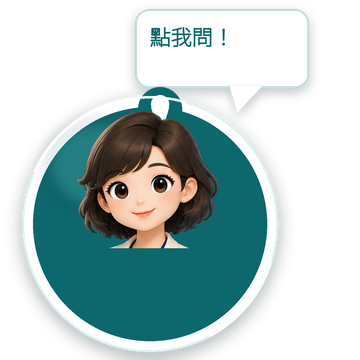
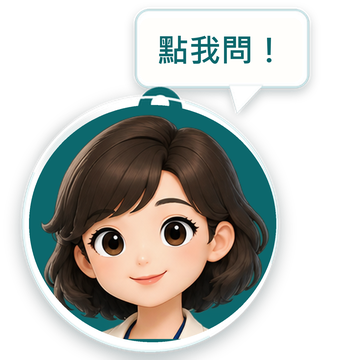
fix: align assistant chat windows

diff --git a/index.html b/index.html
@@ -2,7 +2,7 @@
 
 <!-- Dialogflow CX Conversational Messenger CSS -->
 <link rel="stylesheet" href="https://www.gstatic.com/dialogflow-console/fast/df-messenger/prod/v1/themes/df-messenger-default.css"/>
-<link rel="stylesheet" href="./assets/css/messenger.css?v=assistant-chat-button-20260901-r2"/>
+<link rel="stylesheet" href="./assets/css/messenger.css?v=assistant-chat-button-20260902-r1"/>
 
 </head><body><main class="site-shell"><header class="topbar"><a class="brand" href="#top" aria-label="回到出租房屋租稅優惠專區首頁"><img class="brand-logo" src="https://www-ws.gov.taipei/001/Upload/336/relpic/16016/4092/dbd1f0c1-640c-45bc-bcfa-b72e3a350869.png" alt="臺北市稅捐稽徵處"/><span>出租房屋租稅優惠專區</span></a><nav class="topnav" aria-label="主要導覽"><a href="#guide">快速導引</a><a href="#plans">出租方案</a><a href="#comparison">方案比較</a><a href="#process">辦理流程</a><a href="#tenant-services">租客服務</a><a href="#resources">官方資料</a></nav><a class="official-site-link" href="https://tpctax.gov.taipei/cp.aspx?n=3A978B4E3ADD88F2" target="_blank" rel="noreferrer">官方專區<span class="sr-only">（另開新視窗）</span></a></header><section class="hero" id="top"><div class="hero-copy"><span class="section-kicker">臺北市出租房屋租稅優惠專區</span><h1>選擇身分，<br/><em>查看適用方案</em></h1><p>快速了解出租方式、租稅優惠、辦理流程及應備資料；也可直接向下瀏覽全部資訊。</p><div class="hero-actions"><a class="primary-button" href="#guide">開始快速導引</a><a class="secondary-button" href="#plans">瀏覽全部資訊</a></div></div><aside class="hero-service-card" aria-label="本頁提供的服務"><span>本頁可協助您</span><ul><li><svg viewBox="0 0 24 24" fill="none" stroke="currentColor" stroke-width="1.8" stroke-linecap="round" stroke-linejoin="round" aria-hidden="true" focusable="false"><path d="M6 4h7l3 3-3 3H6zM18 12H9l-3 3 3 3h9zM12 10v11M12 3v1"></path></svg><div><strong>依身分取得辦理順序</strong><small>屋主與房客分流導引</small></div></li><li><svg viewBox="0 0 24 24" fill="none" stroke="currentColor" stroke-width="1.8" stroke-linecap="round" stroke-linejoin="round" aria-hidden="true" focusable="false"><rect x="2" y="4" width="7" height="16" rx="1.5"></rect><rect x="15" y="4" width="7" height="16" rx="1.5"></rect><path d="M4.5 8h2M4.5 12h2M17.5 8h2M17.5 12h2M10 8h4.5m-2-2 2 2-2 2M14 16H9.5m2 2-2-2 2-2"></path></svg><div><strong>比較四種出租方式</strong><small>條件、稅負與管理方式並列</small></div></li><li><svg viewBox="0 0 24 24" fill="none" stroke="currentColor" stroke-width="1.8" stroke-linecap="round" stroke-linejoin="round" aria-hidden="true" focusable="false"><path d="M6 3h8l4 4v14H6z"></path><path d="M14 3v5h5M9 12h6M9 16h6"></path></svg><div><strong>查閱完整官方資料</strong><small>申請、試算、房源與權益入口</small></div></li></ul></aside></section><section class="quick-links" aria-label="常用服務捷徑"><a href="#guide"><span class="quick-icon blue"><svg viewBox="0 0 24 24" fill="none" stroke="currentColor" stroke-width="1.8" stroke-linecap="round" stroke-linejoin="round" aria-hidden="true" focusable="false"><path d="M6 4h7l3 3-3 3H6zM18 12H9l-3 3 3 3h9zM12 10v11M12 3v1"></path></svg></span><div><strong>快速導引</strong><small>依身分與情況取得建議</small></div></a><a class="" href="https://services.arpa.tpctax.dof.gov.taipei/rentStandard/index.php?content=calculator" target="_blank" rel="noreferrer"><span class="quick-icon orange"><svg viewBox="0 0 24 24" fill="none" stroke="currentColor" stroke-width="1.8" stroke-linecap="round" stroke-linejoin="round" aria-hidden="true" focusable="false"><rect x="4" y="2.5" width="16" height="19" rx="2"></rect><path d="M7 6h10v3H7zM8 13h.01M12 13h.01M16 13h.01M8 17h.01M12 17h.01M16 17h.01"></path></svg></span><div><strong>租金標準試算</strong><small>使用稅捐處官方工具</small></div><span class="sr-only">（另開新視窗）</span></a><a href="#comparison"><span class="quick-icon green"><svg viewBox="0 0 24 24" fill="none" stroke="currentColor" stroke-width="1.8" stroke-linecap="round" stroke-linejoin="round" aria-hidden="true" focusable="false"><rect x="2" y="4" width="7" height="16" rx="1.5"></rect><rect x="15" y="4" width="7" height="16" rx="1.5"></rect><path d="M4.5 8h2M4.5 12h2M17.5 8h2M17.5 12h2M10 8h4.5m-2-2 2 2-2 2M14 16H9.5m2 2-2-2 2-2"></path></svg></span><div><strong>四方案比較</strong><small>一次比較條件與稅負</small></div></a><a href="#tenant-services"><span class="quick-icon purple"><svg viewBox="0 0 24 24" fill="none" stroke="currentColor" stroke-width="1.8" stroke-linecap="round" stroke-linejoin="round" aria-hidden="true" focusable="false"><circle cx="12" cy="7.5" r="3.2"></circle><path d="M5.5 20c.7-3.2 3-5 6.5-5s5.8 1.8 6.5 5"></path><path d="M4 4.5h3M5.5 3v3"></path></svg></span><div><strong>租客服務</strong><small>補貼、房源與租屋權益</small></div></a></section><section class="guide-section section-frame" id="guide"><div class="section-heading"><div><span class="section-kicker">快速互動導引</span><h2>依四個步驟，整理下一步</h2></div><p>互動導引協助您掌握流程；所有方案與官方資料也會常駐於下方，不必完成導引才能查看。</p></div><div class="journey-card"><aside class="journey-sidebar"><span class="journey-label">導引進度</span><ol><li class="active current" aria-current="step"><span>1</span><div><strong>確認身分</strong><small>屋主或房客</small></div></li><li class=" "><span>2</span><div><strong>選擇情況</strong><small>出租方式或租屋需求</small></div></li><li class=" "><span>3</span><div><strong>核對條件</strong><small>依實際情況回答</small></div></li><li class=" "><span>4</span><div><strong>查看結果</strong><small>辦理摘要與下一步</small></div></li></ol></aside><div class="journey-stage" tabindex="-1" aria-live="polite"><div class="journey-pane forward"><span class="stage-count">第 1 步，共 4 步</span><h3>請先選擇您的身分</h3><p>後續只顯示與您相關的方案與服務。</p><div class="role-grid"><button type="button"><span class="role-icon blue"><svg viewBox="0 0 24 24" fill="none" stroke="currentColor" stroke-width="1.8" stroke-linecap="round" stroke-linejoin="round" aria-hidden="true" focusable="false"><path d="m3 10 9-7 9 7"></path><path d="M5 9.5V21h14V9.5"></path><path d="M10 21v-6h4v6"></path></svg></span><strong>我是屋主</strong><small>我要出租房屋，查詢方案與租稅優惠</small><b>選擇屋主</b></button><button type="button"><span class="role-icon orange"><svg viewBox="0 0 24 24" fill="none" stroke="currentColor" stroke-width="1.8" stroke-linecap="round" stroke-linejoin="round" aria-hidden="true" focusable="false"><circle cx="12" cy="7.5" r="3.2"></circle><path d="M5.5 20c.7-3.2 3-5 6.5-5s5.8 1.8 6.5 5"></path><path d="M4 4.5h3M5.5 3v3"></path></svg></span><strong>我是房客</strong><small>我要查詢補貼、房源或租屋權益</small><b>選擇房客</b></button></div></div></div></div></section><section class="plans-section section-frame" id="plans"><div class="section-heading"><div><span class="section-kicker">屋主方案總覽</span><h2>先看懂四種出租方式</h2></div><p>點選任一方案圖卡，即會在下方展開完整條件、租稅重點與辦理資料；再次點選即可收合。</p></div><div class="plan-grid"><button class="plan-card blue " type="button" aria-expanded="false" aria-controls="plan-detail-ordinary"><div class="plan-card-top"><span class="plan-icon"><svg viewBox="0 0 24 24" fill="none" stroke="currentColor" stroke-width="1.8" stroke-linecap="round" stroke-linejoin="round" aria-hidden="true" focusable="false"><path d="m3 10 9-7 9 7M5 9.5V21h14V9.5"></path><path d="M9 16h6M12 13v6"></path></svg></span><small>0<!-- -->1</small></div><span class="plan-eyebrow">一般出租</span><h3>自行出租並申報租賃所得</h3><p>由屋主自行找房客、簽約及管理，並依規定辦理房屋稅與租賃所得申報。</p><div class="plan-tags"><span>自主管理</span><span>先試算租金標準</span></div><b>查看完整方案</b></button><button class="plan-card orange " type="button" aria-expanded="false" aria-controls="plan-detail-public"><div class="plan-card-top"><span class="plan-icon"><svg viewBox="0 0 24 24" fill="none" stroke="currentColor" stroke-width="1.8" stroke-linecap="round" stroke-linejoin="round" aria-hidden="true" focusable="false"><path d="M4 10.5 12 4l8 6.5V20H4z"></path><circle cx="12" cy="14" r="3.4"></circle><path d="M12 11.8v4.4M10.5 13h2.4c.8 0 1.2.4 1.2 1s-.4 1-1.2 1h-2.4"></path></svg></span><small>0<!-- -->2</small></div><span class="plan-eyebrow">公益出租人</span><h3>出租予符合租金補貼資格的房客</h3><p>將合法住宅出租給符合租金補貼資格的房客，經認定後可適用相關租稅優惠。</p><div class="plan-tags"><span>租金補貼戶</span><span>租稅優惠</span></div><b>查看完整方案</b></button><button class="plan-card green " type="button" aria-expanded="false" aria-controls="plan-detail-social"><div class="plan-card-top"><span class="plan-icon"><svg viewBox="0 0 24 24" fill="none" stroke="currentColor" stroke-width="1.8" stroke-linecap="round" stroke-linejoin="round" aria-hidden="true" focusable="false"><path d="M4 21V4h10v17M14 9h6v12"></path><path d="M7 7h3M7 11h3M7 15h3M17 12h1M17 16h1M9 21v-3h3v3"></path></svg></span><small>0<!-- -->3</small></div><span class="plan-eyebrow">社會住宅包租代管</span><h3>加入政府包租代管計畫</h3><p>透過政府計畫與合作業者協助招租、媒合及管理，可選擇包租或代管模式。</p><div class="plan-tags"><span>政府計畫</span><span>包租或代管</span></div><b>查看完整方案</b></button><button class="plan-card purple " type="button" aria-expanded="false" aria-controls="plan-detail-personal"><div class="plan-card-top"><span class="plan-icon"><svg viewBox="0 0 24 24" fill="none" stroke="currentColor" stroke-width="1.8" stroke-linecap="round" stroke-linejoin="round" aria-hidden="true" focusable="false"><path d="M3 20V7l9-4 9 4v13"></path><path d="M7 9h3M14 9h3M7 13h3M14 13h3M10 20v-4h4v4"></path><path d="m17.5 4.5 2 2 3-3"></path></svg></span><small>0<!-- -->4</small></div><span class="plan-eyebrow">個人租賃住宅包租代管</span><h3>委託合法租賃住宅服務業</h3><p>自然人屋主將住宅委託合法業者包租或代管，契約約定供居住使用一年以上。</p><div class="plan-tags"><span>合法業者</span><span>契約一年以上</span></div><b>查看完整方案</b></button></div><p class="plan-expand-hint">一次顯示一項方案；選擇其他圖卡時，內容會直接切換。</p></section><section class="comparison-section" id="comparison"><div class="section-frame"><div class="section-heading"><div><span class="section-kicker">方案比較</span><h2>管理方式、條件與租稅重點一次比較</h2></div><p>先依管理方式及房客條件縮小範圍，再查看個別方案完整說明。</p></div><div class="comparison-table-wrap"><table class="comparison-table"><caption class="sr-only">四種出租方式比較表</caption><thead><tr><th scope="col">比較項目</th><th scope="col"><span class="table-plan-icon blue"><svg viewBox="0 0 24 24" fill="none" stroke="currentColor" stroke-width="1.8" stroke-linecap="round" stroke-linejoin="round" aria-hidden="true" focusable="false"><path d="m3 10 9-7 9 7M5 9.5V21h14V9.5"></path><path d="M9 16h6M12 13v6"></path></svg></span>一般出租</th><th scope="col"><span class="table-plan-icon orange"><svg viewBox="0 0 24 24" fill="none" stroke="currentColor" stroke-width="1.8" stroke-linecap="round" stroke-linejoin="round" aria-hidden="true" focusable="false"><path d="M4 10.5 12 4l8 6.5V20H4z"></path><circle cx="12" cy="14" r="3.4"></circle><path d="M12 11.8v4.4M10.5 13h2.4c.8 0 1.2.4 1.2 1s-.4 1-1.2 1h-2.4"></path></svg></span>公益出租人</th><th scope="col"><span class="table-plan-icon green"><svg viewBox="0 0 24 24" fill="none" stroke="currentColor" stroke-width="1.8" stroke-linecap="round" stroke-linejoin="round" aria-hidden="true" focusable="false"><path d="M4 21V4h10v17M14 9h6v12"></path><path d="M7 7h3M7 11h3M7 15h3M17 12h1M17 16h1M9 21v-3h3v3"></path></svg></span>社會住宅包租代管</th><th scope="col"><span class="table-plan-icon purple"><svg viewBox="0 0 24 24" fill="none" stroke="currentColor" stroke-width="1.8" stroke-linecap="round" stroke-linejoin="round" aria-hidden="true" focusable="false"><path d="M3 20V7l9-4 9 4v13"></path><path d="M7 9h3M14 9h3M7 13h3M14 13h3M10 20v-4h4v4"></path><path d="m17.5 4.5 2 2 3-3"></path></svg></span>個人租賃住宅包租代管</th></tr></thead><tbody><tr><th scope="row">管理方式</th><td>屋主自行招租與管理</td><td>屋主自行出租給補貼戶</td><td>政府計畫合作業者包租或代管</td><td>合法租賃住宅服務業包租或代管</td></tr><tr><th scope="row">主要條件</th><td>申報租賃所得達本市一般租金標準</td><td>住宅所有權人；房客符合租金補貼資格</td><td>加入計畫；出租合法住宅</td><td>自然人屋主；合法業者；住宅使用一年以上</td></tr><tr><th scope="row">房屋稅</th><td>4戶內1.5%；5至6戶2%；7戶以上2.4%</td><td>1.2%；115年期相當稅率0.9%</td><td>1%；115年期相當稅率0.75%</td><td>減徵40%，每屋上限1萬元</td></tr><tr><th scope="row">地價稅</th><td>依一般規定</td><td>自用住宅用地稅率2‰</td><td>減徵80%</td><td>減徵40%，每屋上限1萬元</td></tr><tr><th scope="row">所得稅重點</th><td>依租賃所得規定申報</td><td>每月1.5萬元免稅；費用率43%</td><td>每月1.5萬元免稅；費用率60%</td><td>6,000元免稅；其後依租金級距適用費用率</td></tr><tr><th scope="row">第一步</th><td>先做租金標準試算</td><td>確認房客補貼資格</td><td>洽詢計畫合作業者</td><td>查詢合法業者與契約條件</td></tr></tbody></table></div><p class="table-note">註：上表為115年度公開資訊摘要；正式資格、稅率、期限及核定結果，以主管機關最新公告及個案審查為準。</p></div></section><section class="process-section" id="process"><div class="section-frame"><div class="section-heading"><div><span class="section-kicker">方案專屬辦理路徑</span><h2>選擇一種出租方案，查看接下來怎麼辦</h2></div><p>這不是另一份方案介紹；請先選擇出租方式，系統會顯示該方案的實際辦理清單與官方入口。</p></div><div class="process-selector" aria-label="選擇要查看辦理路徑的出租方案"><button type="button" aria-pressed="false" class="blue"><span><svg viewBox="0 0 24 24" fill="none" stroke="currentColor" stroke-width="1.8" stroke-linecap="round" stroke-linejoin="round" aria-hidden="true" focusable="false"><path d="m3 10 9-7 9 7M5 9.5V21h14V9.5"></path><path d="M9 16h6M12 13v6"></path></svg></span>一般出租</button><button type="button" aria-pressed="false" class="orange"><span><svg viewBox="0 0 24 24" fill="none" stroke="currentColor" stroke-width="1.8" stroke-linecap="round" stroke-linejoin="round" aria-hidden="true" focusable="false"><path d="M4 10.5 12 4l8 6.5V20H4z"></path><circle cx="12" cy="14" r="3.4"></circle><path d="M12 11.8v4.4M10.5 13h2.4c.8 0 1.2.4 1.2 1s-.4 1-1.2 1h-2.4"></path></svg></span>公益出租人</button><button type="button" aria-pressed="false" class="green"><span><svg viewBox="0 0 24 24" fill="none" stroke="currentColor" stroke-width="1.8" stroke-linecap="round" stroke-linejoin="round" aria-hidden="true" focusable="false"><path d="M4 21V4h10v17M14 9h6v12"></path><path d="M7 7h3M7 11h3M7 15h3M17 12h1M17 16h1M9 21v-3h3v3"></path></svg></span>社會住宅包租代管</button><button type="button" aria-pressed="false" class="purple"><span><svg viewBox="0 0 24 24" fill="none" stroke="currentColor" stroke-width="1.8" stroke-linecap="round" stroke-linejoin="round" aria-hidden="true" focusable="false"><path d="M3 20V7l9-4 9 4v13"></path><path d="M7 9h3M14 9h3M7 13h3M14 13h3M10 20v-4h4v4"></path><path d="m17.5 4.5 2 2 3-3"></path></svg></span>個人租賃住宅包租代管</button></div><div class="process-empty"><svg viewBox="0 0 24 24" fill="none" stroke="currentColor" stroke-width="1.8" stroke-linecap="round" stroke-linejoin="round" aria-hidden="true" focusable="false"><path d="M6 4h7l3 3-3 3H6zM18 12H9l-3 3 3 3h9zM12 10v11M12 3v1"></path></svg><div><strong>尚未選擇方案</strong><p>點選上方四個方案之一，即可取得對應的辦理路徑，不必自行從共通說明中猜測。</p></div></div><div class="agency-heading"><span>依稅目分流</span><h3>最後要找哪個機關？</h3><p>地方稅與綜合所得稅由不同機關辦理，請依下列項目確認窗口。</p></div><div class="agency-split"><div><span>臺北市稅捐稽徵處</span><strong>房屋稅、地價稅</strong><p>依方案可能由機關主動辦理，或須於期限前提出申請。</p></div><div><span>財政部國稅局</span><strong>綜合所得稅</strong><p>於年度所得稅申報時，依實際租金收入及適用規定辦理。</p></div></div></div></section><section class="calculator-section" id="calculator"><div class="calculator-copy"><span class="section-kicker">租金標準</span><h2>一般出租前，先完成官方試算</h2><p>準備房屋評定現值、公告土地現值總額與全年租金資料，即可查詢出租房屋租金是否符合本市一般租金標準。</p><ul><li>不在本頁自行重製稅務計算公式</li><li>計算結果以官方工具與核定資料為準</li></ul></div><div class="calculator-card"><span><svg viewBox="0 0 24 24" fill="none" stroke="currentColor" stroke-width="1.8" stroke-linecap="round" stroke-linejoin="round" aria-hidden="true" focusable="false"><rect x="4" y="2.5" width="16" height="19" rx="2"></rect><path d="M7 6h10v3H7zM8 13h.01M12 13h.01M16 13h.01M8 17h.01M12 17h.01M16 17h.01"></path></svg></span><div><small>臺北市稅捐稽徵處官方工具</small><strong>出租房屋租金標準試算</strong><p>輸入資料後即可取得初步試算結果。</p></div><a class="" href="https://services.arpa.tpctax.dof.gov.taipei/rentStandard/index.php?content=calculator" target="_blank" rel="noreferrer">開啟官方試算<span class="sr-only">（另開新視窗）</span></a></div></section><section class="tenant-section section-frame" id="tenant-services"><div class="section-heading"><div><span class="section-kicker">房客資訊與服務</span><h2>補貼、房源與租屋權益</h2></div><p>互動導引只是入口；以下服務常駐顯示，可直接依需要查詢。</p></div><div class="resource-grid tenant-grid"><a class="resource-card blue" href="https://has.nlma.gov.tw/subsidyOnline/house300e/" target="_blank" rel="noreferrer"><span class="resource-icon"><svg viewBox="0 0 24 24" fill="none" stroke="currentColor" stroke-width="1.8" stroke-linecap="round" stroke-linejoin="round" aria-hidden="true" focusable="false"><path d="M4 10.5 12 4l8 6.5V20H4z"></path><circle cx="12" cy="14" r="3.4"></circle><path d="M12 11.8v4.4M10.5 13h2.4c.8 0 1.2.4 1.2 1s-.4 1-1.2 1h-2.4"></path></svg></span><small>內政部國土管理署</small><strong>中央擴大租金補貼</strong><p>115年1月1日上午9時至12月31日下午5時受理，採隨到隨辦。</p><b>前往官方線上申請</b><span class="sr-only">（另開新視窗）</span></a><a class="resource-card green" href="https://rent-allowance.udd.gov.taipei/" target="_blank" rel="noreferrer"><span class="resource-icon"><svg viewBox="0 0 24 24" fill="none" stroke="currentColor" stroke-width="1.8" stroke-linecap="round" stroke-linejoin="round" aria-hidden="true" focusable="false"><path d="M4 10.5 12 4l8 6.5V20H4z"></path><circle cx="12" cy="14" r="3.4"></circle><path d="M12 11.8v4.4M10.5 13h2.4c.8 0 1.2.4 1.2 1s-.4 1-1.2 1h-2.4"></path></svg></span><small>臺北市租金補貼網</small><strong>臺北幸福租及租金加碼補貼</strong><p>依家庭與身分類別查詢臺北市租金加碼補貼及申請方式。</p><b>查看補貼分類</b><span class="sr-only">（另開新視窗）</span></a><a class="resource-card orange" href="https://rent-allowance.udd.gov.taipei/RentAllowance/LowIncomes" target="_blank" rel="noreferrer"><span class="resource-icon"><svg viewBox="0 0 24 24" fill="none" stroke="currentColor" stroke-width="1.8" stroke-linecap="round" stroke-linejoin="round" aria-hidden="true" focusable="false"><path d="M6 3h8l4 4v14H6z"></path><path d="M14 3v5h5M9 12h6M9 16h6"></path></svg></span><small>臺北市租金補貼網</small><strong>低收入戶租金補貼</strong><p>低收入戶租屋家庭可依資格申請，受理方式以年度公告為準。</p><b>查看資格與線上申請</b><span class="sr-only">（另開新視窗）</span></a><a class="resource-card purple" href="https://dosw.gov.taipei/cp.aspx?n=A119F2D98118E1D5&amp;s=C82846AD24E9F281" target="_blank" rel="noreferrer"><span class="resource-icon"><svg viewBox="0 0 24 24" fill="none" stroke="currentColor" stroke-width="1.8" stroke-linecap="round" stroke-linejoin="round" aria-hidden="true" focusable="false"><path d="M12 3 19 6v5c0 4.5-2.8 8-7 10-4.2-2-7-5.5-7-10V6z"></path><path d="m8.5 12 2.2 2.2 4.8-5"></path></svg></span><small>臺北市政府社會局</small><strong>身心障礙者房屋租金補貼</strong><p>每年1月至12月受理，資格與文件以官方頁面為準。</p><b>查看申請說明</b><span class="sr-only">（另開新視窗）</span></a><a class="resource-card orange" href="https://www.ipc.gov.taipei/News_Content.aspx?n=4FDBC97163E1A185&amp;s=0714FC733E0478C9&amp;sms=87415A8B9CE81B16" target="_blank" rel="noreferrer"><span class="resource-icon"><svg viewBox="0 0 24 24" fill="none" stroke="currentColor" stroke-width="1.8" stroke-linecap="round" stroke-linejoin="round" aria-hidden="true" focusable="false"><path d="m3 10 9-7 9 7"></path><path d="M5 9.5V21h14V9.5"></path><path d="M10 21v-6h4v6"></path></svg></span><small>臺北市政府原住民族事務委員會</small><strong>都市原住民家庭租屋補貼</strong><p>依年度公告分期受理，請先確認身分、設籍及租屋條件。</p><b>查看申請資格與期間</b><span class="sr-only">（另開新視窗）</span></a><a class="resource-card green" href="https://leasing-and-management.udd.gov.taipei/house-plan" target="_blank" rel="noreferrer"><span class="resource-icon"><svg viewBox="0 0 24 24" fill="none" stroke="currentColor" stroke-width="1.8" stroke-linecap="round" stroke-linejoin="round" aria-hidden="true" focusable="false"><path d="M4 21V4h10v17M14 9h6v12"></path><path d="M7 7h3M7 11h3M7 15h3M17 12h1M17 16h1M9 21v-3h3v3"></path></svg></span><small>臺北市政府包租代管</small><strong>包租代管承租資格與洽詢</strong><p>查看房客資格、房屋條件及第5期合作業者聯絡方式。</p><b>查看承租資訊</b><span class="sr-only">（另開新視窗）</span></a><a class="resource-card blue" href="https://land.gov.taipei/cp.aspx?n=7C1E1C242171C23B" target="_blank" rel="noreferrer"><span class="resource-icon"><svg viewBox="0 0 24 24" fill="none" stroke="currentColor" stroke-width="1.8" stroke-linecap="round" stroke-linejoin="round" aria-hidden="true" focusable="false"><path d="m3 10 9-7 9 7"></path><path d="M5 9.5V21h14V9.5"></path><path d="M10 21v-6h4v6"></path></svg></span><small>臺北市政府地政局</small><strong>五大歡迎屋源標示</strong><p>辨識歡迎長者、學生、青年、設籍及租金補貼的屋源。</p><b>查看友善屋源</b><span class="sr-only">（另開新視窗）</span></a><a class="resource-card blue" href="https://ca.gov.taipei/cp.aspx?n=79C8987DAB54485A" target="_blank" rel="noreferrer"><span class="resource-icon"><svg viewBox="0 0 24 24" fill="none" stroke="currentColor" stroke-width="1.8" stroke-linecap="round" stroke-linejoin="round" aria-hidden="true" focusable="false"><circle cx="12" cy="7.5" r="3.2"></circle><path d="M5.5 20c.7-3.2 3-5 6.5-5s5.8 1.8 6.5 5"></path><path d="M4 4.5h3M5.5 3v3"></path></svg></span><small>臺北市政府民政局</small><strong>租屋設籍與居住查實</strong><p>查詢租屋設籍文件；無法提出證明文件時，了解居住查實程序。</p><b>查看設籍辦理方式</b><span class="sr-only">（另開新視窗）</span></a><a class="resource-card purple" href="https://legalaffairs.gov.taipei/cp.aspx?n=C2C4B29685ACA1A5" target="_blank" rel="noreferrer"><span class="resource-icon"><svg viewBox="0 0 24 24" fill="none" stroke="currentColor" stroke-width="1.8" stroke-linecap="round" stroke-linejoin="round" aria-hidden="true" focusable="false"><path d="M6 3h8l4 4v14H6z"></path><path d="M14 3v5h5M9 12h6M9 16h6"></path></svg></span><small>臺北市政府法務局</small><strong>房屋租賃法律諮詢</strong><p>租約、押金、修繕或終止租約等問題，可查詢預約諮詢方式。</p><b>查看法律諮詢服務</b><span class="sr-only">（另開新視窗）</span></a><a class="resource-card orange" href="https://dlacp.gov.taipei/" target="_blank" rel="noreferrer"><span class="resource-icon"><svg viewBox="0 0 24 24" fill="none" stroke="currentColor" stroke-width="1.8" stroke-linecap="round" stroke-linejoin="round" aria-hidden="true" focusable="false"><path d="M12 3 19 6v5c0 4.5-2.8 8-7 10-4.2-2-7-5.5-7-10V6z"></path><path d="m8.5 12 2.2 2.2 4.8-5"></path></svg></span><small>臺北市政府法務局</small><strong>租賃消費爭議申訴</strong><p>與租賃住宅服務業或業者發生消費爭議時，依程序提出申訴。</p><b>前往消費爭議申訴</b><span class="sr-only">（另開新視窗）</span></a></div></section><section class="resources-section" id="resources"><div class="section-frame"><div class="section-heading"><div><span class="section-kicker">官方資料與申辦服務</span><h2>需要正式辦理時，從這裡開始</h2></div><p>連結名稱直接說明可辦理的事項，避免只看到機關名稱而不知道用途。</p></div><div class="resource-grid official-grid"><a class="resource-card official" href="https://nprent.nlma.gov.tw/nprent/" target="_blank" rel="noreferrer"><span class="resource-icon"><svg viewBox="0 0 24 24" fill="none" stroke="currentColor" stroke-width="1.8" stroke-linecap="round" stroke-linejoin="round" aria-hidden="true" focusable="false"><circle cx="10.5" cy="10.5" r="6"></circle><path d="m15 15 5 5"></path></svg></span><strong>公益出租人認定查詢</strong><p>輸入資料確認是否已取得公益出租人資格認定。</p><b>前往官方網站</b><span class="sr-only">（另開新視窗）</span></a><a class="resource-card official" href="https://leasing-and-management.udd.gov.taipei/news/70" target="_blank" rel="noreferrer"><span class="resource-icon"><svg viewBox="0 0 24 24" fill="none" stroke="currentColor" stroke-width="1.8" stroke-linecap="round" stroke-linejoin="round" aria-hidden="true" focusable="false"><path d="M4 21V4h10v17M14 9h6v12"></path><path d="M7 7h3M7 11h3M7 15h3M17 12h1M17 16h1M9 21v-3h3v3"></path></svg></span><strong>包租代管加入與合作業者</strong><p>屋主可查詢第5期合作業者及聯絡方式，房客可下載申請文件。</p><b>前往官方網站</b><span class="sr-only">（另開新視窗）</span></a><a class="resource-card official" href="https://resim.moi.gov.tw/Home/RentIndex" target="_blank" rel="noreferrer"><span class="resource-icon"><svg viewBox="0 0 24 24" fill="none" stroke="currentColor" stroke-width="1.8" stroke-linecap="round" stroke-linejoin="round" aria-hidden="true" focusable="false"><path d="M3 20V7l9-4 9 4v13"></path><path d="M7 9h3M14 9h3M7 13h3M14 13h3M10 20v-4h4v4"></path><path d="m17.5 4.5 2 2 3-3"></path></svg></span><strong>合法租賃住宅服務業查詢</strong><p>委託包租或代管前，先確認業者是否合法登記。</p><b>前往官方網站</b><span class="sr-only">（另開新視窗）</span></a><a class="resource-card official" href="https://tpctax.gov.taipei/cp.aspx?n=F1C8047E644BDA72" target="_blank" rel="noreferrer"><span class="resource-icon"><svg viewBox="0 0 24 24" fill="none" stroke="currentColor" stroke-width="1.8" stroke-linecap="round" stroke-linejoin="round" aria-hidden="true" focusable="false"><rect x="4" y="3" width="16" height="18" rx="2"></rect><path d="m8 8 1.5 1.5L12 7M14 8h3M8 13l1.5 1.5L12 12M14 13h3M8 18l1.5 1.5L12 17M14 18h3"></path></svg></span><strong>申辦與書表下載</strong><p>查詢房屋稅、地價稅等申辦管道與表單。</p><b>前往官方網站</b><span class="sr-only">（另開新視窗）</span></a><a class="resource-card official" href="https://tpctax.gov.taipei/cp.aspx?n=740DDA9D6694C033" target="_blank" rel="noreferrer"><span class="resource-icon"><svg viewBox="0 0 24 24" fill="none" stroke="currentColor" stroke-width="1.8" stroke-linecap="round" stroke-linejoin="round" aria-hidden="true" focusable="false"><circle cx="10.5" cy="10.5" r="6"></circle><path d="m15 15 5 5"></path></svg></span><strong>案件進度查詢</strong><p>查詢已申辦地方稅案件的辦理進度。</p><b>前往官方網站</b><span class="sr-only">（另開新視窗）</span></a><a class="resource-card official" href="https://tpctax.gov.taipei/Content_List.aspx?n=0F7D61EAEF55788B" target="_blank" rel="noreferrer"><span class="resource-icon"><svg viewBox="0 0 24 24" fill="none" stroke="currentColor" stroke-width="1.8" stroke-linecap="round" stroke-linejoin="round" aria-hidden="true" focusable="false"><path d="M6.8 3.5 10 7l-2 2.4a15 15 0 0 0 6.6 6.6l2.4-2 3.5 3.2-1.7 3a2 2 0 0 1-2.2.9C9.5 19.4 4.6 14.5 2.9 7.4A2 2 0 0 1 3.8 5z"></path></svg></span><strong>聯絡資訊與服務據點</strong><p>查詢總處、分處電話、地址及聯絡信箱。</p><b>前往官方網站</b><span class="sr-only">（另開新視窗）</span></a></div><div class="contact-bar"><span class="contact-icon"><svg viewBox="0 0 24 24" fill="none" stroke="currentColor" stroke-width="1.8" stroke-linecap="round" stroke-linejoin="round" aria-hidden="true" focusable="false"><path d="M6.8 3.5 10 7l-2 2.4a15 15 0 0 0 6.6 6.6l2.4-2 3.5 3.2-1.7 3a2 2 0 0 1-2.2.9C9.5 19.4 4.6 14.5 2.9 7.4A2 2 0 0 1 3.8 5z"></path></svg></span><div><small>稅務諮詢</small><strong>國稅與地方稅免付費電話 0800-000-321</strong><p>限辦公時間提供服務；臺北市稅捐稽徵處總機 (02) 2394-9211。</p></div><a class="" href="https://1999.gov.taipei/Front/main" target="_blank" rel="noreferrer">前往臺北市陳情系統<span class="sr-only">（另開新視窗）</span></a></div></div></section><section class="faq-section section-frame" id="faq"><div class="section-heading"><div><span class="section-kicker">常見問題</span><h2>先釐清容易混淆的事項</h2></div><p>若仍涉及個案資格或稅額認定，請使用官方聯絡資訊洽詢。</p></div><div class="faq-list"><article class="open"><button type="button" aria-expanded="true"><span><small>Q<!-- -->1</small>四種出租方式最主要的差異是什麼？</span><b aria-hidden="true">−</b></button><p>主要差異在管理方式、房客資格及租稅優惠。一般出租由屋主自行管理；公益出租人須出租給符合租金補貼資格的房客；社會住宅包租代管須加入政府計畫；個人租賃住宅包租代管則須委託合法業者並符合一年以上住宅使用契約等條件。</p></article><article class=""><button type="button" aria-expanded="false"><span><small>Q<!-- -->2</small>一般出租為什麼要先做租金標準試算？</span><b aria-hidden="true">+</b></button></article><article class=""><button type="button" aria-expanded="false"><span><small>Q<!-- -->3</small>公益出租人要自己申請嗎？</span><b aria-hidden="true">+</b></button></article><article class=""><button type="button" aria-expanded="false"><span><small>Q<!-- -->4</small>「包租」與「代管」有什麼不同？</span><b aria-hidden="true">+</b></button></article><article class=""><button type="button" aria-expanded="false"><span><small>Q<!-- -->5</small>地方稅優惠的申請期限固定嗎？</span><b aria-hidden="true">+</b></button></article><article class=""><button type="button" aria-expanded="false"><span><small>Q<!-- -->6</small>房客可以在這個網站完成哪些事？</span><b aria-hidden="true">+</b></button></article><article class=""><button type="button" aria-expanded="false"><span><small>Q<!-- -->7</small>互動導引結果可以作為正式資格認定嗎？</span><b aria-hidden="true">+</b></button></article></div></section><footer class="site-footer"><div><strong>臺北市稅捐稽徵處</strong><span>出租房屋租稅優惠專區</span></div><nav aria-label="頁尾導覽"><a href="#guide">快速導引</a><a href="#plans">出租方案</a><a href="#tenant-services">租客服務</a><a href="#top">回到頁首</a></nav><div class="footer-notice"><p>資格、稅率、期限及申請結果，仍以主管機關最新公告與個案核定為準。</p><small>資料來源：臺北市稅捐稽徵處　｜　最後核對：115年8月30日</small></div></footer></main><script type="module" src="./_next/static/chunks/index-_zFRZPOk.js" id="_R_" async=""></script><script>((self[Symbol.for("vinext.navigationRuntime")]??={bootstrap:{routeManifest:null},functions:{}}).bootstrap.rsc??={rsc:[]}).rsc.push("2:I[\"5696ff2d7f01\",[],\"Children\",1]\n")</script><script>((self[Symbol.for("vinext.navigationRuntime")]??={bootstrap:{routeManifest:null},functions:{}}).bootstrap.rsc??={rsc:[]}).rsc.push("3:I[\"794d5bf844eb\",[],\"GlobalErrorBoundary\",1]\n")</script><script>((self[Symbol.for("vinext.navigationRuntime")]??={bootstrap:{routeManifest:null},functions:{}}).bootstrap.rsc??={rsc:[]}).rsc.push("4:I[\"57266f2d2a6c\",[],\"default\",1]\n")</script><script>((self[Symbol.for("vinext.navigationRuntime")]??={bootstrap:{routeManifest:null},functions:{}}).bootstrap.rsc??={rsc:[]}).rsc.push("5:I[\"794d5bf844eb\",[],\"ErrorBoundary\",1]\n")</script><script>((self[Symbol.for("vinext.navigationRuntime")]??={bootstrap:{routeManifest:null},functions:{}}).bootstrap.rsc??={rsc:[]}).rsc.push("6:I[\"eea80df9d523\",[],\"LayoutSegmentProvider\",1]\n")</script><script>((self[Symbol.for("vinext.navigationRuntime")]??={bootstrap:{routeManifest:null},functions:{}}).bootstrap.rsc??={rsc:[]}).rsc.push("7:I[\"5696ff2d7f01\",[],\"Slot\",1]\n")</script><script>((self[Symbol.for("vinext.navigationRuntime")]??={bootstrap:{routeManifest:null},functions:{}}).bootstrap.rsc??={rsc:[]}).rsc.push("8:I[\"bdb1e03d034c\",[],\"AppRouterScrollTarget\",1]\n")</script><script>((self[Symbol.for("vinext.navigationRuntime")]??={bootstrap:{routeManifest:null},functions:{}}).bootstrap.rsc??={rsc:[]}).rsc.push("9:I[\"794d5bf844eb\",[],\"RedirectBoundary\",1]\n")</script><script>((self[Symbol.for("vinext.navigationRuntime")]??={bootstrap:{routeManifest:null},functions:{}}).bootstrap.rsc??={rsc:[]}).rsc.push(":HL[\"./assets/css/site.css\",\"style\"     ]\n")</script><script>((self[Symbol.for("vinext.navigationRuntime")]??={bootstrap:{routeManifest:null},functions:{}}).bootstrap.rsc??={rsc:[]}).rsc.push("0:{\"__route\":\"route:/\",\"__interceptionContext\":null,\"__layoutIds\":[\"layout:/\"],\"__rootLayout\":\"/\",\"__sourcePage\":\"/page\",\"page:/\":\"$L1\",\"layout:/\":[[[[\"$\",\"link\",\"css:./assets/css/site.css\",{\"rel\":\"stylesheet\",\"precedence\":\"vite-rsc/importer-resources\",\"href\":\"./assets/css/site.css\",\"data-rsc-css-href\":\"./assets/css/site.css\"}],\"$undefined\"],[\"$\",\"html\",null,{\"lang\":\"zh-Hant-TW\",\"children\":[\"$\",\"body\",null,{\"children\":[\"$\",\"$L2\",null,{}]}]}]],null],\"route:/\":[[[\"$\",\"meta\",null,{\"charSet\":\"utf-8\"}],[[\"$\",\"title\",\"0\",{\"children\":\"出租房屋租稅優惠專區｜臺北市稅捐稽徵處\"}],[\"$\",\"meta\",\"1\",{\"name\":\"description\",\"content\":\"依屋主或房客身分，查詢臺北市出租方案、租稅優惠、辦理流程、租金標準試算與租屋服務。\"}],[\"$\",\"meta\",\"2\",{\"property\":\"og:title\",\"content\":\"出租房屋租稅優惠專區｜臺北市稅捐稽徵處\"}],[\"$\",\"meta\",\"3\",{\"property\":\"og:description\",\"content\":\"選擇身分，查看適用方案、租稅重點、辦理流程與完整官方資料。\"}],[\"$\",\"meta\",\"4\",{\"property\":\"og:image\",\"content\":\"https://taipei-rental-tax-guide.cfhsu7283.chatgpt.site/hero-v2.png\"}],[\"$\",\"meta\",\"5\",{\"property\":\"og:image:alt\",\"content\":\"臺北市出租房屋租稅優惠與租屋服務導引\"}],[\"$\",\"meta\",\"6\",{\"name\":\"twitter:card\",\"content\":\"summary_large_image\"}],[\"$\",\"meta\",\"7\",{\"name\":\"twitter:title\",\"content\":\"出租房屋租稅優惠專區｜臺北市稅捐稽徵處\"}],[\"$\",\"meta\",\"8\",{\"name\":\"twitter:description\",\"content\":\"選擇身分，查看適用方案、租稅重點、辦理流程與完整官方資料。\"}],[\"$\",\"meta\",\"9\",{\"name\":\"twitter:image\",\"content\":\"https://taipei-rental-tax-guide.cfhsu7283.chatgpt.site/hero-v2.png\"}]],[[\"$\",\"meta\",\"0\",{\"name\":\"viewport\",\"content\":\"width=device-width, initial-scale=1\"}]]],[\"$\",\"$L3\",null,{\"fallback\":\"$4\",\"children\":[\"$\",\"$L5\",null,{\"fallback\":\"$4\",\"children\":[\"$\",\"$L6\",null,{\"providerId\":\"layout:/\",\"segmentMap\":{\"children\":[]},\"children\":[\"$\",\"$L7\",null,{\"id\":\"layout:/\",\"parallelSlots\":\"$undefined\",\"children\":[\"$\",\"$L8\",null,{\"children\":[\"$\",\"$L9\",null,{\"children\":[[\"$\",\"$L6\",null,{\"providerId\":\"page:/\",\"segmentMap\":{\"children\":[\"__PAGE__\"]},\"children\":[\"$\",\"$L7\",null,{\"id\":\"page:/\"}]}],null]}]}]}]}]}]}],null,null],\"__layoutFlags\":{\"layout:/\":\"s\"},\"__artifactCompatibility\":{\"schemaVersion\":1,\"graphVersion\":\"app-route-graph:1177fd80f83fa7b0\",\"deploymentVersion\":\"6b25ae3d-231b-4460-8a0e-0a3c906533b4\",\"appElementsSchemaVersion\":1,\"rscPayloadSchemaVersion\":1,\"rootBoundaryId\":\"/\",\"renderEpoch\":null},\"__renderObservation\":{\"schemaVersion\":1,\"output\":{\"kind\":\"app-rsc\",\"mountedSlotsFingerprint\":null,\"renderEpoch\":null,\"rootBoundaryId\":\"/\",\"routeId\":\"route:/\"},\"completeness\":\"partial\",\"boundaryOutcome\":{\"kind\":\"unknown\"},\"requestApis\":[{\"kind\":\"connection\",\"status\":\"unknown\"},{\"kind\":\"cookies\",\"status\":\"unknown\"},{\"kind\":\"draftMode\",\"status\":\"unknown\"},{\"kind\":\"headers\",\"status\":\"unknown\"},{\"kind\":\"params\",\"status\":\"unknown\"},{\"kind\":\"searchParams\",\"status\":\"unknown\"}],\"dynamicFetches\":[],\"cacheTags\":[\"/\",\"_N_T_/\",\"_N_T_/index\",\"_N_T_/layout\",\"_N_T_/page\"],\"pathTags\":[\"/\"],\"cacheability\":\"unknown\",\"downgrade\":{\"target\":\"freshRender\",\"reasons\":[{\"code\":\"CP_DOWNGRADE_CACHEABILITY_UNKNOWN\",\"target\":\"freshRender\"},{\"code\":\"CP_DOWNGRADE_INCOMPLETE_OBSERVATION\",\"completeness\":\"partial\" ,\"target\":\"freshRender\"}],\"fallback\":{\"kind\":\"breakerFallback\",\"code\":\"CP_PRIVATE_DYNAMIC_DOWNGRADE\",\"mode\":\"renderFresh\",\"scope\":\"affectedOutput\",\"fields\":{\"reasonCodes\":[\"CP_DOWNGRADE_CACHEABILITY_UNKNOWN\",\"CP_DOWNGRADE_INCOMPLETE_OBSERVATION\"],\"target\":\"freshRender\"}},\"isPublicCacheCandidate\":false}}}\n")</script><script>((self[Symbol.for("vinext.navigationRuntime")]??={bootstrap:{routeManifest:null},functions:{}}).bootstrap.rsc??={rsc:[]}).rsc.push("a:I[\"6efdf509a785\",[],\"default\",1]\n")</script><script>((self[Symbol.for("vinext.navigationRuntime")]??={bootstrap:{routeManifest:null},functions:{}}).bootstrap.rsc??={rsc:[]}).rsc.push("1:[\"$\",\"$La\",null,{\"params\":\"$@b\",\"searchParams\":\"$@c\"}]\n")</script><script>((self[Symbol.for("vinext.navigationRuntime")]??={bootstrap:{routeManifest:null},functions:{}}).bootstrap.rsc??={rsc:[]}).rsc.push("b:{}\n")</script><script>((self[Symbol.for("vinext.navigationRuntime")]??={bootstrap:{routeManifest:null},functions:{}}).bootstrap.rsc??={rsc:[]}).rsc.push("c:{}\n")</script><script>Object.assign(((self[Symbol.for("vinext.navigationRuntime")]??={bootstrap:{routeManifest:null},functions:{}}).bootstrap.rsc??={rsc:[]}),{"initialCacheKind":"dynamic"});((self[Symbol.for("vinext.navigationRuntime")]??={bootstrap:{routeManifest:null},functions:{}}).bootstrap.rsc??={rsc:[]}).done=true</script>
 
@@ -58,5 +58,5 @@
 </aside>
 
 <script src="./assets/js/site-enhancements.js"></script>
-<script src="./assets/js/messenger-ui.js?v=assistant-chat-button-20260901-r2"></script>
+<script src="./assets/js/messenger-ui.js?v=assistant-chat-button-20260902-r1"></script>
 </body></html>

diff --git a/assets/js/messenger-ui.js b/assets/js/messenger-ui.js
@@ -24,7 +24,8 @@
   };
 
   var ASSISTANT_ASSET_VERSION = "assistant-motion-20260901-r2";
-  var ASSISTANT_CHAT_BUBBLE_ICON = "./assets/images/assistant/assistant-chat-bubble.png?v=assistant-chat-button-20260901";
+  var ASSISTANT_CHAT_BUBBLE_ICON = "./assets/images/assistant/assistant-chat-bubble.png?v=assistant-chat-button-20260902-r1";
+  var ASSISTANT_PANEL_WINDOW_OFFSET = 18;
 
   var ASSISTANT_COPY = {
     idle: {
@@ -185,6 +186,18 @@
 
   function customizeChatBubbleIcon(bubble) {
     if (!bubble || !bubble.shadowRoot) return;
+
+    if (!bubble.shadowRoot.querySelector("[data-assistant-chat-bubble-styles]")) {
+      var style = document.createElement("style");
+      style.setAttribute("data-assistant-chat-bubble-styles", "true");
+      style.textContent = [
+        ".bubble .close-icon{z-index:2}",
+        ".bubble .close-icon svg{fill:#ffffff!important}",
+        ".bubble[aria-expanded=\"true\"]{background:var(--df-messenger-primary-color,#0c686d)!important}",
+        ".bubble[aria-expanded=\"false\"]{background:transparent!important}"
+      ].join("");
+      bubble.shadowRoot.appendChild(style);
+    }
 
     var icon = bubble.shadowRoot.querySelector(".bubble .icon");
     if (!icon) return;
@@ -364,7 +377,7 @@
     var right = parseFloat(messengerStyle.right) || 14;
     var bottom = parseFloat(messengerStyle.bottom) || 14;
     var bubbleSize = getCssPixels(elements.messenger, "--df-messenger-chat-bubble-size", 62);
-    var windowOffset = getCssPixels(elements.messenger, "--df-messenger-chat-window-offset", 18);
+    var windowOffset = ASSISTANT_PANEL_WINDOW_OFFSET;
     elements.emptyState.style.right = Math.max(22, right + 12) + "px";
     elements.emptyState.style.bottom = Math.max(14, bottom) + bubbleSize + windowOffset + 106 + "px";
   }
@@ -393,7 +406,7 @@
     var chatWidth = getCssPixels(elements.messenger, "--df-messenger-chat-window-width", MESSENGER_LIMITS.maxWidth);
     var chatHeight = getCssPixels(elements.messenger, "--df-messenger-chat-window-height", MESSENGER_LIMITS.maxHeight);
     var bubbleSize = getCssPixels(elements.messenger, "--df-messenger-chat-bubble-size", 62);
-    var windowOffset = getCssPixels(elements.messenger, "--df-messenger-chat-window-offset", 18);
+    var windowOffset = ASSISTANT_PANEL_WINDOW_OFFSET;
     var isVisible = chatIsOpen && canShowAssistantPanel(viewport, chatWidth, right);
     elements.assistantPanel.style.right = right + chatWidth - MESSENGER_LIMITS.assistantPanelOverlap + "px";
     elements.assistantPanel.style.bottom = Math.max(14, bottom) + bubbleSize + windowOffset + "px";

diff --git a/assets/css/messenger.css b/assets/css/messenger.css
@@ -25,7 +25,8 @@ df-messenger {
   --df-messenger-chat-border-radius: 22px;
   --df-messenger-chat-window-width: min(430px, calc(100vw - 32px));
   --df-messenger-chat-window-height: min(680px, calc(100dvh - 124px));
-  --df-messenger-chat-window-offset: 18px;
+  /* Move the native chat window down to align its input bar with the assistant panel. */
+  --df-messenger-chat-window-offset: -21px;
   --df-messenger-chat-window-box-shadow: 0 18px 50px rgba(13, 57, 63, 0.24);
   --df-messenger-chat-padding: 16px;
 
@@ -80,7 +81,8 @@ df-messenger {
   --df-messenger-chat-bubble-background: transparent;
   --df-messenger-chat-bubble-size: 84px;
   --df-messenger-chat-bubble-icon-size: 150px;
-  --df-messenger-chat-bubble-icon-color: transparent;
+  --df-messenger-chat-bubble-icon-color: #ffffff;
+  --df-messenger-chat-bubble-close-icon-transform-rotate: 0deg;
   --df-messenger-chat-bubble-border-radius: 50%;
   --df-messenger-chat-bubble-border: none;
 
